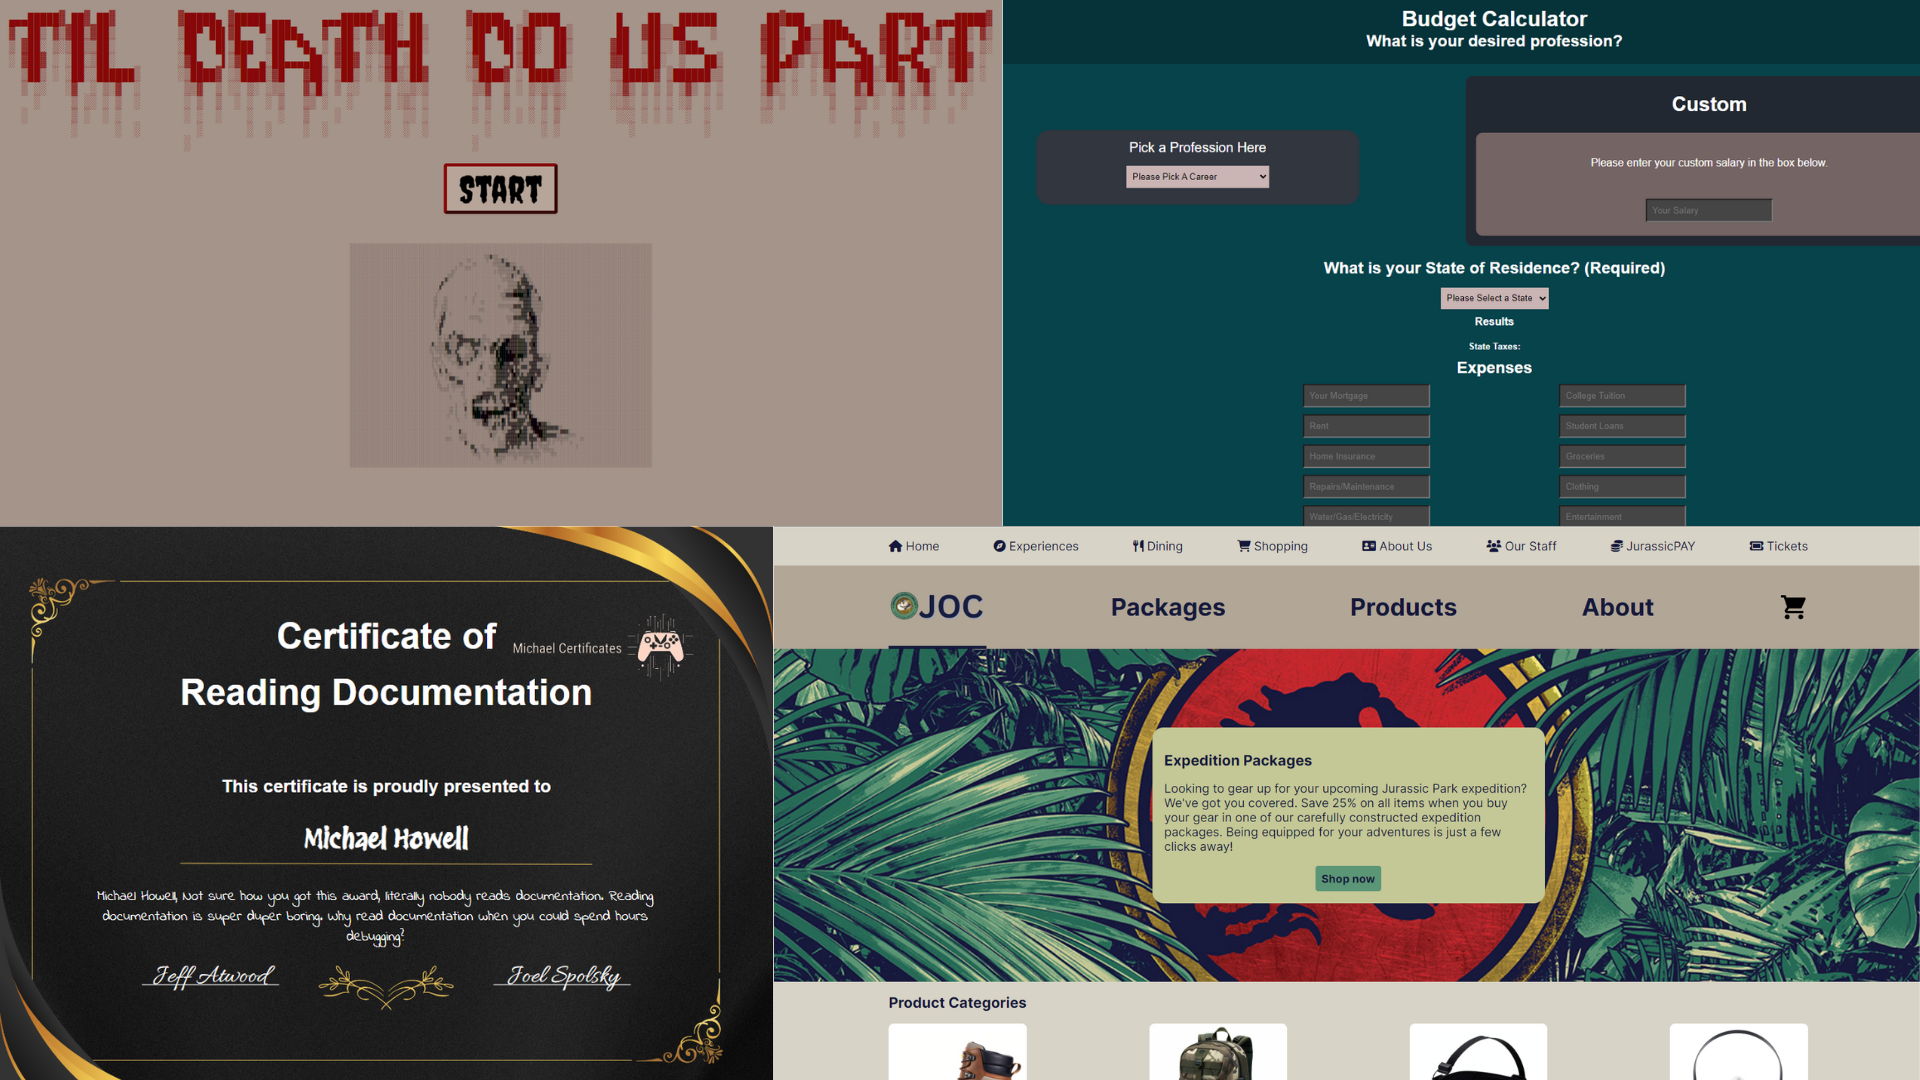
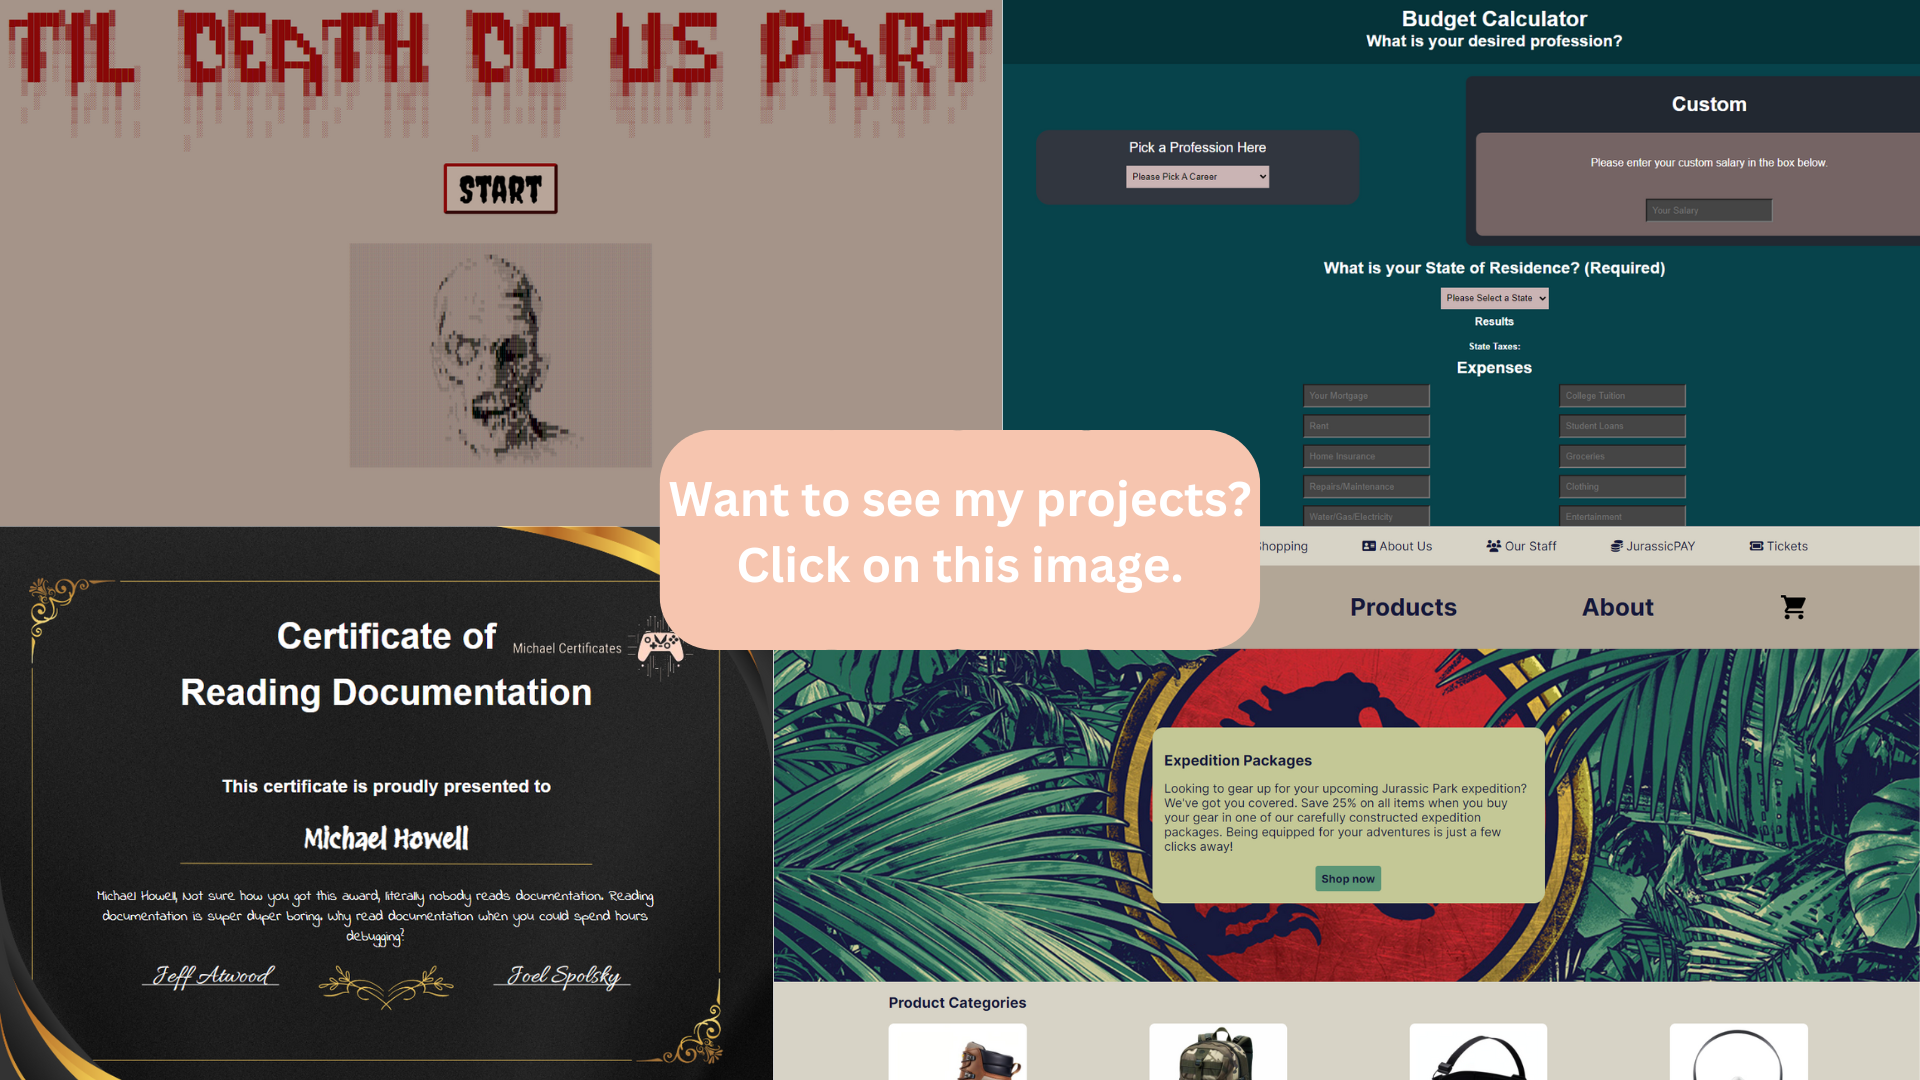
update

Changed region(s): [[0.3438, 0.3972, 0.6562, 0.6111]]

diff --git a/index.html b/index.html
@@ -39,62 +39,6 @@
 
 
 
-    <section class="proj1">
-
-        <h2>Some of my projects...</h2>
-
-        <section class="slide">
-            <h3>Till Death Do Us Part</h3>
-            <a href="https://tddup.netlify.app/"><img src="./imgs/tddup.png"></a>
-            <p>The project above is a text adventure where you play as a survivor in a zombie apocalypse. I did all of
-                the JavaScript while Jack Franks did most of the story. If you would like to play it then click the
-                image
-                above.
-            </p>
-        </section>
-
-        <section class="slide">
-            <h3>Jurrassic Outfitting Company</h3>
-            <a href="https://jurassicoutfitting.netlify.app/jurassic-outfitting-co/home"><img src="./imgs/joc.png"></a>
-            <p class="typeani">This project is a website Taha and I made for customers that attend Jurrassic Park.
-                Obviously we are not
-                crazy, we knew it was fictional. Taha did the styling and JavaScript while I designed the
-                website.
-            </p>
-        </section>
-
-        <section class="slide">
-            <h3>Budget Calculator</h3>
-            <a href="https://budgetcalculators.netlify.app/"><img src="./imgs/budget.png"></a>
-            <p class="typeani">This is a project that I worked on by myself, obviously it's not finished but it somewhat
-                works well. Its purpose is to display the amount of money you have left over after calculating all of
-                your expenses.</p>
-        </section>
-
-        <section class="slide">
-            <h3>Michael Certificates</h3>
-            <a href="https://certificatemakers.netlify.app/"><img src="./imgs/certificate.png"></a>
-            <p class="typeani">This is a certificate maker that I made. It can make funny certificates for you. You
-                input your name and the type of certificate you want at the top left.</p>
-        </section>
-
-        <section class="slide">
-            <h3>Zen Garden</h3>
-            <a href="https://michaelzengarden.netlify.app/"><img src="./imgs/zen.png"></a>
-            <p class="typeani">This is one of my early projects in Web Development, we were provided an HTML file and
-                were tasked to style it without modifying the contents of the HTML file (the HTML file includes text and
-                images). So although each student had the same text content, each website varied widely depending on
-                what we had in mind for the design.</p>
-        </section>
-
-        <h2>Cool Stuff About Me</h2>
-        <div class="buttoncontainer"><button id="am" onclick="location.href='./about.html'">Portal Through Time</button>
-        </div>
-        <a href="mailto:jimmy@record7.com">Contact Us</a>
-
-
-    </section>
-
     <footer>
         <a href="./resume/resume.pdf">
             <p>Download my Résumé</p>

diff --git a/about.html b/about.html
@@ -10,15 +10,13 @@
     <link rel="stylesheet" href="./styles/other.css">
     <link rel="stylesheet" href="./styles/rainbowborder.css">
     <script src="scripts/script.js"></script>
+    <script src="scripts/opac.js"></script>
 </head>
 
 <body>
 
     <section class="navwrap">
         <nav class="topbar">
-            <div class="imglink">
-                <a href="index.html" class="imglink"><img src="./transparentLogoGrey.png"></a>
-            </div>
             <div class="links">
                 <a href="index.html">Home</a>
                 <a href="about.html" style="font-weight:bold">About</a>
@@ -32,7 +30,7 @@
     <div class="aboutwrapper">
         <!-- when hover set opacity to back image to 1 with transition -->
         <section class="introduction">
-            <div class="introcontainer">
+            <div class="introcontainer" id="introcontainer">
                 <h1>Hi.</h1>
                 <p>My name is Michael. I attend both CART and Clovis West, I take Web Applications here at CART and take
                     Computer Science A at
@@ -40,6 +38,7 @@
                     West. The purpose of this website was to showcase my skills of both web development and design.
                     Pairing both of these skills together brings you this (hopefully) awesome website.</p>
             </div>
+            <img class="img2" src="imgs/projects.png" onmouseover="opac1(0.1, true, 'introcontainer')" onmouseout="opac1(1, false, 'introcontainer')">
         </section>
         <section class="showc">
             <p>In order to showcase my skills to there fullest potential I paired my JS skills with my CSS skills to

diff --git a/styles/other.css b/styles/other.css
@@ -34,6 +34,7 @@ body p {
 
 
 .introduction {
+    position: relative;
     width: 90%;
     height: 80vh;
     display: flex;
@@ -41,10 +42,37 @@ body p {
     justify-content: center;
     flex-direction: column;
     margin-bottom: 20vh;
-    background-image: url("/imgs/projects.png");
-    background-size: cover;
-    background-repeat: no-repeat;
+    margin-top: 6vh;
+    border-radius: 100px;
 }
+
+.introduction img {
+    position: absolute;
+    width: 70vw;
+    opacity: 0.7;
+    height: auto;
+    transition: opacity 0.5s ease;
+    z-index: 0;
+    border-radius: 50px;
+
+}
+
+.introduction img:hover {
+    opacity: 1;
+    transition: opacity 0.5s ease;
+}
+
+.opacitylow {
+    opacity: 0.2;
+    transition: opacity 0.5s ease;
+}
+
+.opacitynorm {
+    opacity: 1;
+    transition: opacity 0.5s ease;
+}
+
+
 
 .introcontainer {
     display: flex;
@@ -52,8 +80,9 @@ body p {
     align-items: center;
     flex-direction: column;
     background-color: #2d3258;
-    width: 80%;
+    width: 70%;
     border-radius: 20px;
+    z-index: 1;
 }
 
 .introduction h2,
@@ -70,11 +99,7 @@ p {
     width: 80%;
 }
 
-.aboutwrapper img {
-    width: 30vw;
-    height: auto;
-    max-height: 30vw;
-}
+
 
 .thanks {
     display: flex;
@@ -120,4 +145,3 @@ footer {
         transform: translateY(100px);
     }
 }
-

diff --git a/scripts/opac.js b/scripts/opac.js
@@ -1,0 +1,10 @@
+function opac1(num, islow, id) {
+    if (islow) {
+        document.getElementById(id).classList.remove("opacitynorm")
+        document.getElementById(id).classList.add("opacitylow")
+    } else {
+        document.getElementById(id).classList.remove("opacitylow")
+        document.getElementById(id).classList.add("opacitynorm")
+    }
+}
+

diff --git a/scripts/type.js b/scripts/type.js
@@ -87,4 +87,5 @@ document.addEventListener("DOMContentLoaded", function () {
         i = 26
         correction();
     }
+
 })
